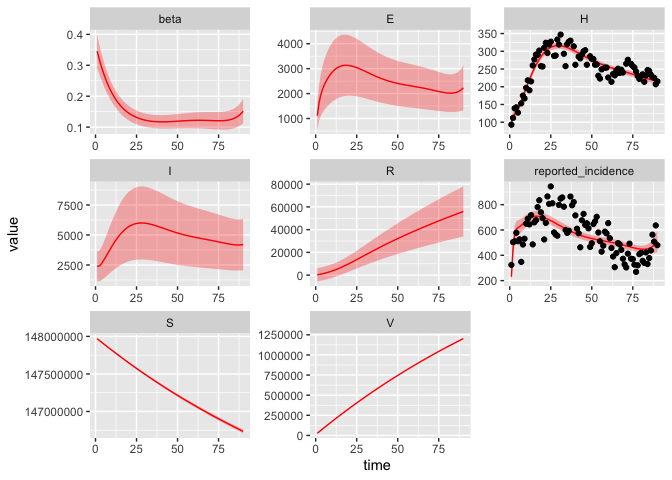
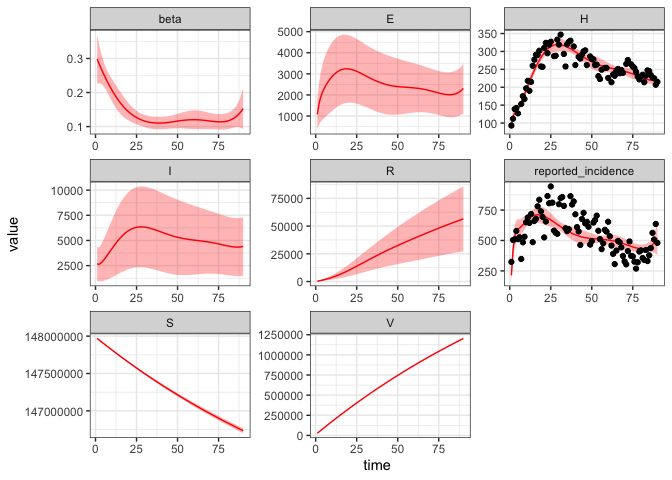
[skip ci] work on starter models

diff --git a/inst/starter_models/shiver/README.md b/inst/starter_models/shiver/README.md
@@ -2,25 +2,37 @@ SHIVER = SEIR + H + V
 ================
 Jennifer Freeman, Steve Walker
 
-- [Packages Used and Settings](#packages-used-and-settings)
-- [Model Specification](#model-specification)
-- [States](#states)
-- [Parameters](#parameters)
-- [Variable Vaccination Rate](#variable-vaccination-rate)
-- [Dynamics](#dynamics)
-- [Calibration Example](#calibration-example)
-  - [Calibration Scenario](#calibration-scenario)
-  - [Deciding on Defaults](#deciding-on-defaults)
-  - [Simulating Dynamics](#simulating-dynamics)
-  - [Estimating Parameters](#estimating-parameters)
-  - [Re-parameterizing and Introducing
-    Transformations](#re-parameterizing-and-introducing-transformations)
-  - [Runge-Kutta 4](#runge-kutta-4)
-  - [Fitting to Multiple
-    Trajectories](#fitting-to-multiple-trajectories)
-  - [Parameter Identifiability](#parameter-identifiability)
-- [Model Specification](#model-specification-1)
-- [References](#references)
+-   <a href="#packages-used-and-settings"
+    id="toc-packages-used-and-settings">Packages Used and Settings</a>
+-   <a href="#model-specification" id="toc-model-specification">Model
+    Specification</a>
+-   <a href="#states" id="toc-states">States</a>
+-   <a href="#parameters" id="toc-parameters">Parameters</a>
+-   <a href="#variable-vaccination-rate"
+    id="toc-variable-vaccination-rate">Variable Vaccination Rate</a>
+-   <a href="#dynamics" id="toc-dynamics">Dynamics</a>
+-   <a href="#calibration-example" id="toc-calibration-example">Calibration
+    Example</a>
+    -   <a href="#calibration-scenario"
+        id="toc-calibration-scenario">Calibration Scenario</a>
+    -   <a href="#deciding-on-defaults" id="toc-deciding-on-defaults">Deciding
+        on Defaults</a>
+    -   <a href="#simulating-dynamics" id="toc-simulating-dynamics">Simulating
+        Dynamics</a>
+    -   <a href="#estimating-parameters"
+        id="toc-estimating-parameters">Estimating Parameters</a>
+    -   <a href="#re-parameterizing-and-introducing-transformations"
+        id="toc-re-parameterizing-and-introducing-transformations">Re-parameterizing
+        and Introducing Transformations</a>
+    -   <a href="#runge-kutta-4" id="toc-runge-kutta-4">Runge-Kutta 4</a>
+    -   <a href="#fitting-to-multiple-trajectories"
+        id="toc-fitting-to-multiple-trajectories">Fitting to Multiple
+        Trajectories</a>
+    -   <a href="#parameter-identifiability"
+        id="toc-parameter-identifiability">Parameter Identifiability</a>
+-   <a href="#model-specification-1" id="toc-model-specification-1">Model
+    Specification</a>
+-   <a href="#references" id="toc-references">References</a>
 
 This model builds on the basic SEIR model, with two additional
 compartments for vaccination and hospitalizations.
@@ -686,7 +698,7 @@ shiver_calibrator = mp_tmb_calibrator(
 mp_optimize(shiver_calibrator)
 #> $par
 #>       params       params       params       params       params 
-#> -4.157752739 -0.207593565 -8.769173074  0.005611944  0.006871819 
+#> -4.157752739 -0.207593565 -8.769173070  0.005611944  0.006871819 
 #> 
 #> $objective
 #> [1] 383.1069
@@ -870,7 +882,7 @@ multi_traj_spec = (reparameterized_spec
 ``` r
 ## we need a more elaborate prior distribution
 sd_par = 1 ## for convenience we give all parameters the same prior sd, for now
-sd_state = 8 ## extremely vague priors on state variables
+sd_state = 4 ## extremely vague priors on state variables
 prior_distributions = list(
     log_beta = mp_normal(log(0.2), sd_par)
   , log_sigma = mp_normal(log(sigma), sd_par)
@@ -888,61 +900,66 @@ dd = rbind(reported_hospitalizations, reported_cases)
 
 # calibrate
 shiver_calibrator = mp_tmb_calibrator(
-    spec = multi_traj_spec |> mp_hazard()
+    spec = (multi_traj_spec 
+      |> mp_hazard()
+    )
     # row bind both observed data
   , data = dd
-    # fit both trajectories with negative binomial distributions
-  , traj = list(H = mp_neg_bin(
-      disp = mp_fit(1))
-    , reported_incidence = mp_neg_bin(disp = mp_fit(1))
+    # fit both trajectories with log-normal distributions
+    # (changed from negative binomial because apparently it is easier
+    # to fit standard deviations than dispersion parameters)
+  , traj = list(H = mp_log_normal(sd = mp_fit(1))
+    , reported_incidence = mp_log_normal(sd = mp_fit(1))
   )
   , par = prior_distributions
     # fit the transmission rate using four radial basis functions for
     # a flexible model of time variation.
-  , tv = mp_rbf("rbf_beta", 4, sparse_tol = 1e-8)
+  , tv = mp_rbf("rbf_beta", 5, sparse_tol = 1e-8)
   , outputs = c(states, "reported_incidence", "beta")
 )
 ```
 
 Next we optimize, and look at our estimates.
 
-    #>                                     mat row   default  estimate std.error
-    #> 1                     time_var_rbf_beta   1    0.0000    0.2041    0.0220
-    #> 2                     time_var_rbf_beta   2    0.0000   -0.5628    0.0616
-    #> 3                     time_var_rbf_beta   3    0.0000    2.8213    0.2924
-    #> 4                     prior_sd_rbf_beta   0    1.0000    0.5721    0.0155
-    #> 5                     time_var_rbf_beta   0    0.0000   -0.1323    0.0130
-    #> 6                                  beta   0    0.0100    0.3680    0.0302
-    #> 7                                 sigma   0    0.0498    0.0388    0.0116
-    #> 8                   distr_params_disp_H   0    1.0000  528.7879   59.1467
-    #> 9  distr_params_disp_reported_incidence   0    1.0000   22.5734    3.6071
-    #> 10                              gamma_h   0    0.0498    1.1633    0.2734
-    #> 11                            E_I_ratio   0    0.0100    0.0910    0.1082
-    #> 12                                    I   0 2718.5714 2697.4890  703.2089
-    #> 13                                    H   0   63.0000    0.0001    0.0909
-    #> 14                                    R   0    1.0000    0.9951 2959.8807
-    #> 15                          report_prob   0    0.5000    0.8547    0.1647
-    #> 16                                    p   0    0.0100    0.2816   11.2698
-    #>     conf.low conf.high
-    #> 1     0.1609    0.2472
-    #> 2    -0.6836   -0.4420
-    #> 3     2.2482    3.3945
-    #> 4     0.5417    0.6025
-    #> 5    -0.1578   -0.1067
-    #> 6     0.3133    0.4321
-    #> 7     0.0216    0.0698
-    #> 8   424.6897  658.4022
-    #> 9    16.5037   30.8754
-    #> 10    0.7339    1.8441
-    #> 11    0.0089    0.9354
-    #> 12 1618.3028 4496.3445
-    #> 13    0.0000       Inf
-    #> 14    0.0000       Inf
-    #> 15    0.3040    0.9875
-    #> 16    0.0000    1.0000
+    #>                                   mat row   default  estimate std.error
+    #> 1                   time_var_rbf_beta   1    0.0000   -0.0300    0.0487
+    #> 2                   time_var_rbf_beta   2    0.0000    0.0485    0.0541
+    #> 3                   time_var_rbf_beta   3    0.0000   -0.0695    0.0679
+    #> 4                   time_var_rbf_beta   4    0.0000    0.1091    0.0907
+    #> 5                   prior_sd_rbf_beta   0    1.0000    0.5297    0.0177
+    #> 6                   distr_params_sd_H   0    1.0000    0.0752    0.0157
+    #> 7  distr_params_sd_reported_incidence   0    1.0000    0.2209    0.0187
+    #> 8                   time_var_rbf_beta   0    0.0000   -0.0270    0.0431
+    #> 9                                beta   0    0.0100    0.3099    0.0443
+    #> 10                              sigma   0    0.0498    0.0336    0.0113
+    #> 11                            gamma_h   0    0.0498    0.9811    0.1856
+    #> 12                          E_I_ratio   0    0.0100    0.0851    0.1017
+    #> 13                                  I   0 2718.5714 2986.9423  943.6758
+    #> 14                                  H   0   63.0000    0.1453    2.9807
+    #> 15                                  R   0    1.0000    1.0000   54.5981
+    #> 16                        report_prob   0    0.5000    0.8292    0.2194
+    #> 17                                  p   0    0.0100    0.2197    9.1710
+    #>     conf.low    conf.high
+    #> 1    -0.1255 6.550000e-02
+    #> 2    -0.0576 1.546000e-01
+    #> 3    -0.2026 6.360000e-02
+    #> 4    -0.0687 2.869000e-01
+    #> 5     0.4951 5.643000e-01
+    #> 6     0.0445 1.060000e-01
+    #> 7     0.1843 2.574000e-01
+    #> 8    -0.1116 5.750000e-02
+    #> 9     0.2342 4.102000e-01
+    #> 10    0.0174 6.490000e-02
+    #> 11    0.6772 1.421400e+00
+    #> 12    0.0082 8.853000e-01
+    #> 13 1608.0649 5.548174e+03
+    #> 14    0.0000 4.193101e+16
+    #> 15    0.0000 2.978526e+46
+    #> 16    0.1891 9.902000e-01
+    #> 17    0.0000 1.000000e+00
 
 Our prior for `sigma` is similar to the posterior, but `gamma_h` seems
-to have been pushed up by the data from about `0.05` to about `1.11`. We
+to have been pushed up by the data from about `0.05` to about 0.98. We
 still do not have confidence in our estimate of `p`. We now have five
 other parameters controlling transmission, and so to interpret them we
 really need a plot of how transmission varies over time in the model. We
